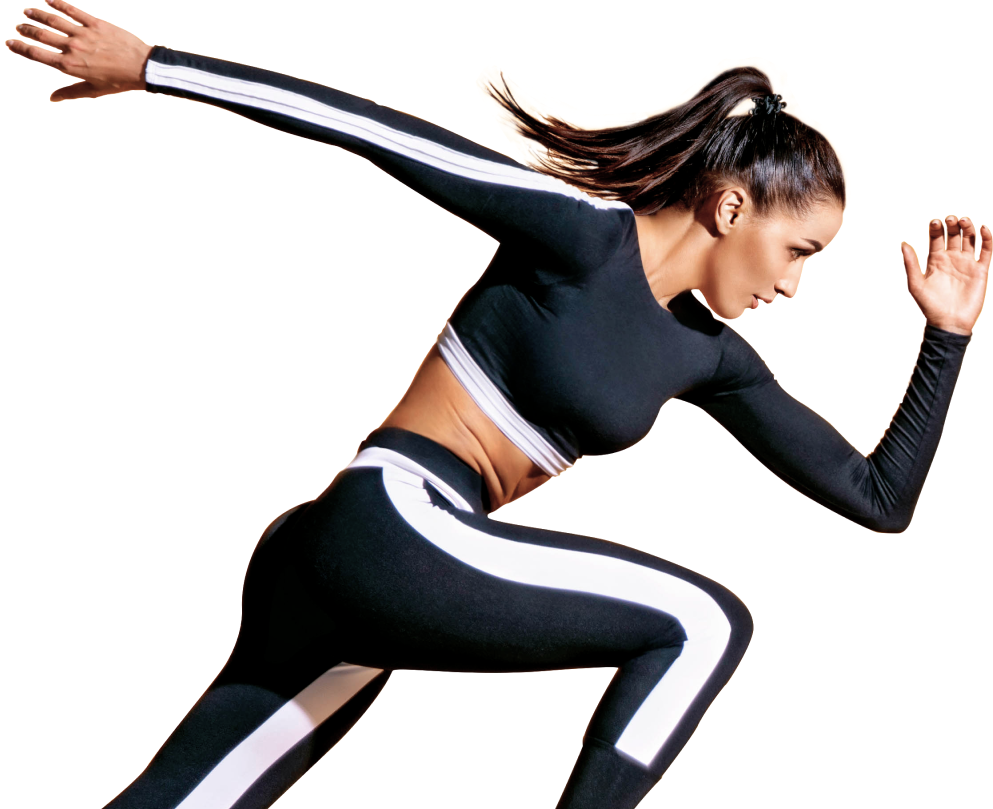
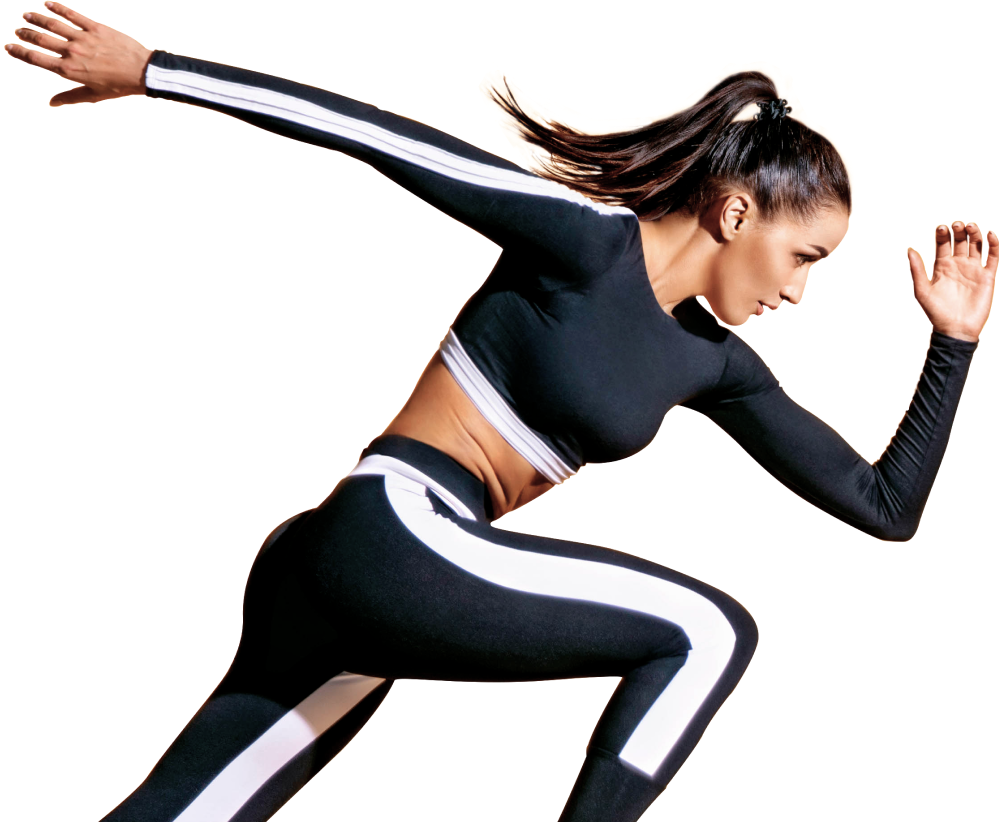
corect img

diff --git a/css/main.css b/css/main.css
@@ -139,10 +139,10 @@ body
  .main-box-img {
     background-image: url(../img/girl.png);
     position: absolute;
-    top: 45px;
-    right: -97px;
+    top: 40px;
+    right: -96px;
     width: 986px;
-    height: 850px;
+    height: 869px;
     background-repeat: no-repeat;
     background-size: contain;
 }
